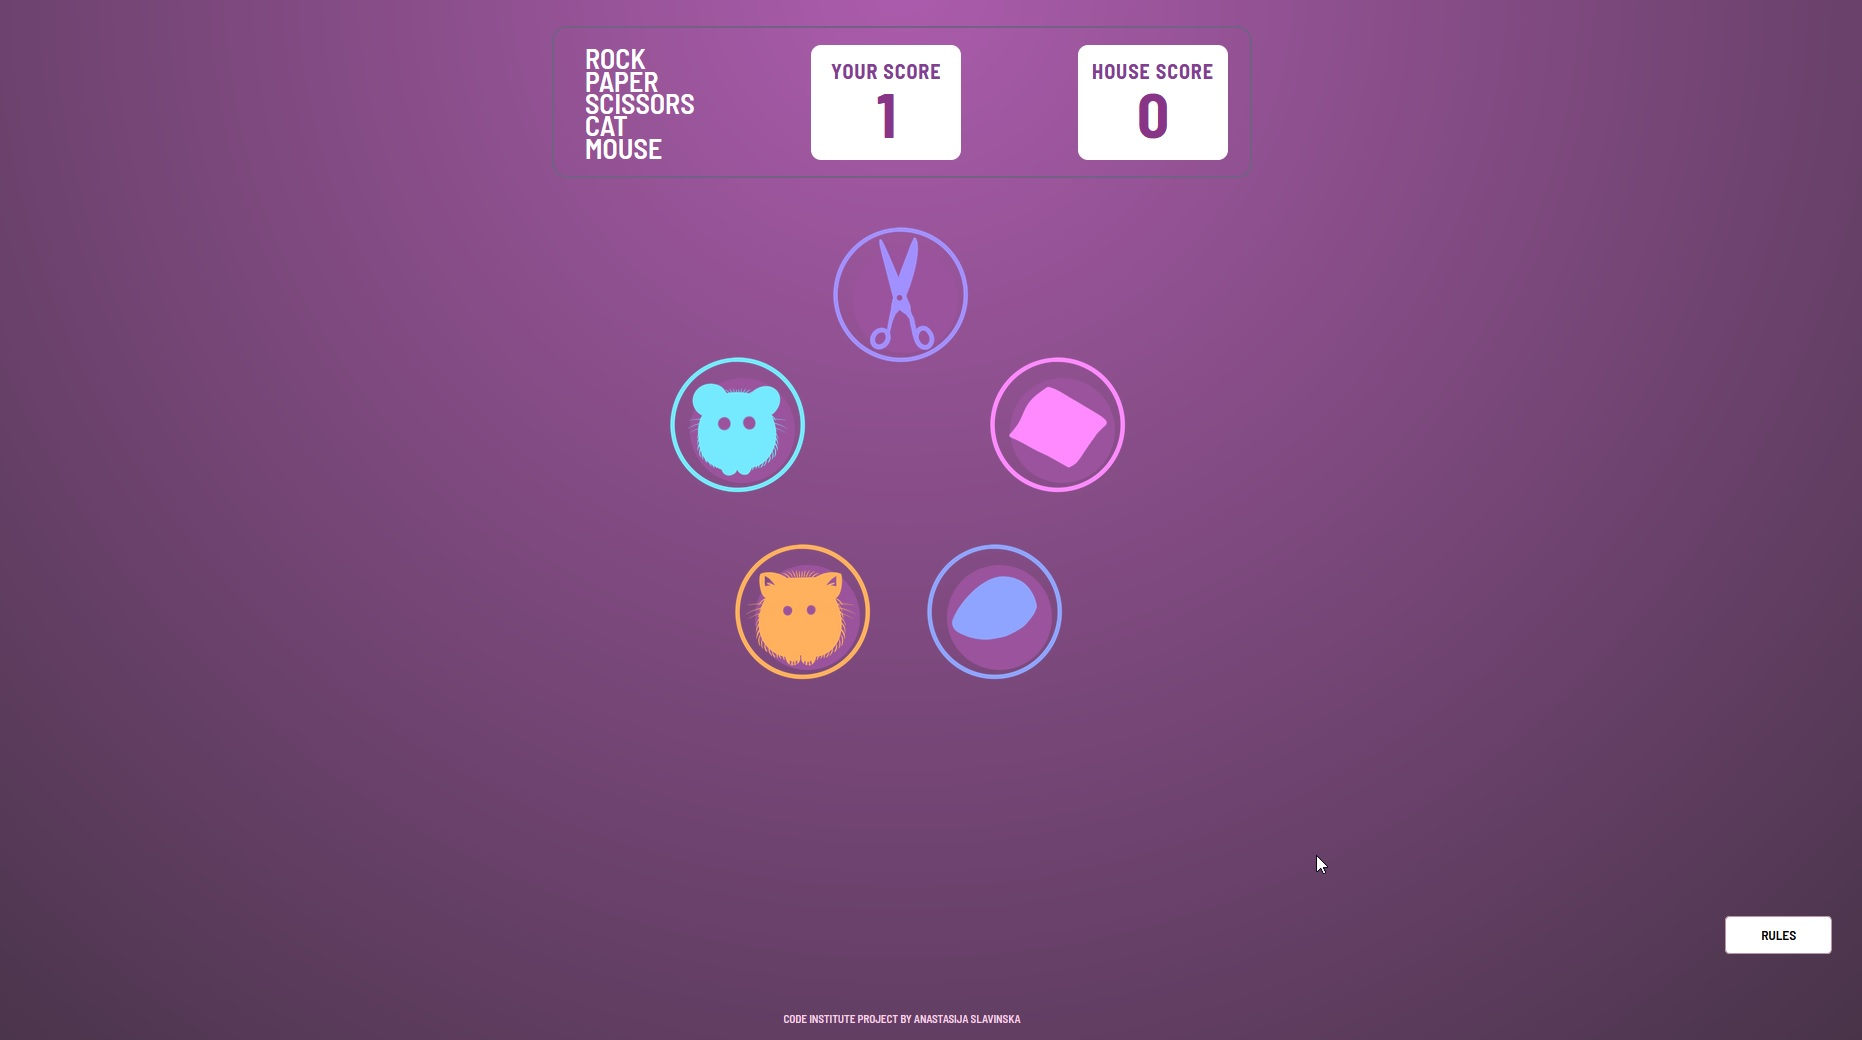
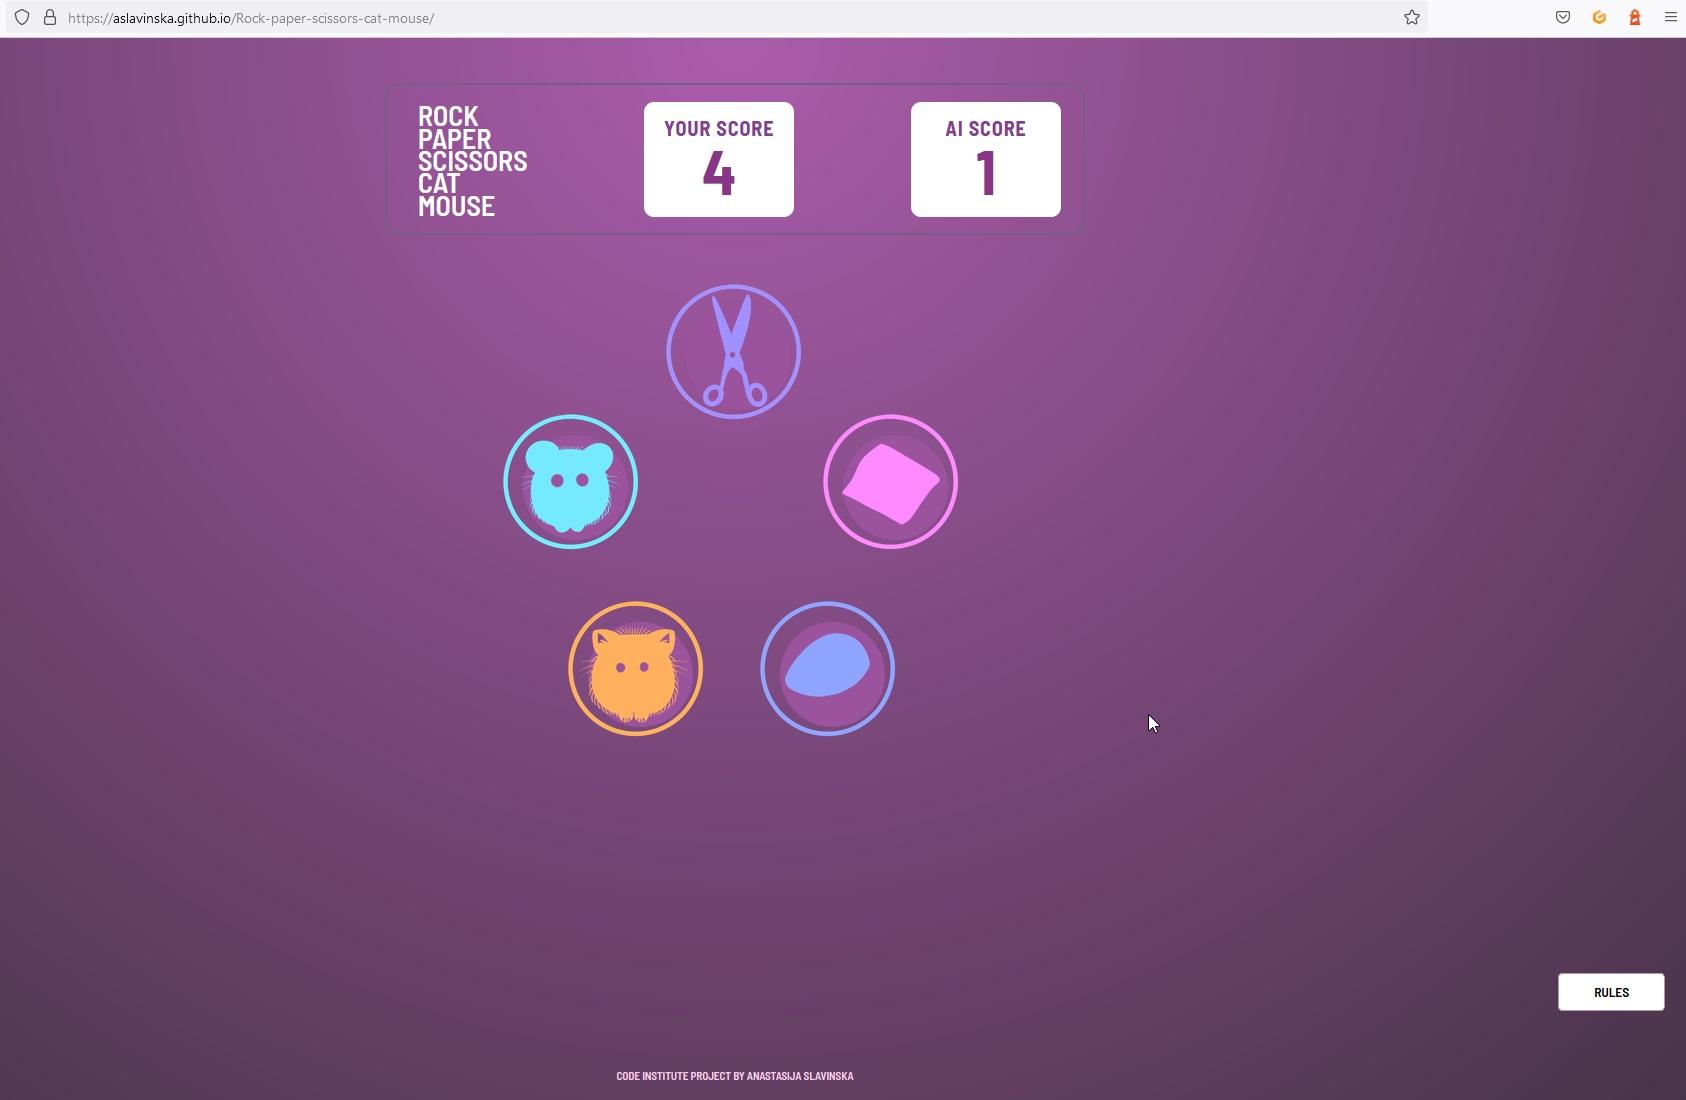
Adding README file

diff --git a/README.md b/README.md
@@ -1,12 +1,36 @@
 # Rock, Paper, Scissors, Cat and Mouse Game
 
+This game is a personal take on Rock, Paper, Scissors, Spok and Lizard game. User is playing agains the computer and its designed for intertaiment. The computer selects random option from an array of 5 options. 
+At the end of the game the user will be able to see their score vs computer the AI score. The game is designed to be unlimited.
+In the image below you are able to see how the games main page will look on different devices. 
+
 ![Responsive](/assets/images/Responsive.jpg)
 
 # Features
 
-- **Navigation**
+- ## Existing Features
     - This games UI is designed to be on a single page and the view will be updated as per the user input.
-    ![Main Page](/assets/images/menuprintmainpage.jpg)![Score Page](/assets/images/scorepage.jpg)
+    - **Header**:
+    - Both the main page and the score page will have the header element in a box above the game with the score count, until the game is reloaded, then the  score count will go to 0. 
+    - The header tells the user which game they are playing.
+    - **The Game Options**:
+    - The main page allows user to select an element out of the 5 option, as soon as the choice is made the game will take you to the score page below.
+    - This section provides interactive icons to make a choice and play the game. 
+
+    ![Main Page](/assets/images/mainpage.jpg)
+ 
+    - **The Game Result**:
+    - On the score page the user will be able to see their score vs the AI score.
+    -  On the score page the user will be able to see the AI choice and who won this game.
+
+    ![Score Page](/assets/images/scorepage.jpg)
+
+    - **Rules Button**
+    Both the main page and the score page contain Rules button as shown below, this grapth is made for the users understanding what beats what. 
+
+    ![Rules Page](/assets/images/Rules.jpg)
+    - **Footer**
+    - The footer shows to the user the author of the game. 
 
 # Testing
  - I have tested this page in brosers: Chrome and Firefox.
@@ -21,6 +45,7 @@
 2. 404 favicon error has been detected during the development, using favicon generator images and links were imported and the issue has been resolved. 
 3. The click command was not recognised by the browser, as the main function was not called.
     3.1 after calling the function got an error : Uncaught TypeError: target is undefined. In order to solve it did code refacturing, removed main function and added event listener function with init function at the end of the code. 
+4. During the deployment on Github Pages the images were not loading, but the project was working great in Gitpod testing environment, after some research online it was tried to add "." before assets "src="./assets/images/mouse.png"" and the Github was able to load the images. 
 
 ## Validator Testing 
 
@@ -40,12 +65,12 @@ No unfixed bugs that have been identified.
 
 # Deployment 
 
-The site was deployed to Github pages using following steps:
+The game was deployed to Github pages using following steps:
 1. In the Github repository go to the Settings tab;
 2. From the source section select Master Branch/ Main;
 3. Click save and the link to the complete website will be automatically generated by Github.
 
-The lie link can be found here - [Rock, Paper, Scissors, Cat and Mouse Game](https://aslavinska.github.io/Rock-paper-scissors-cat-mouse/).
+The live link can be found here - [Rock, Paper, Scissors, Cat and Mouse Game](https://aslavinska.github.io/Rock-paper-scissors-cat-mouse/).
 
 # Credits
 
@@ -56,4 +81,4 @@ The lie link can be found here - [Rock, Paper, Scissors, Cat and Mouse Game](htt
  and [Github Free Example](https://github.com/CompetentProgramming/rock-paper-scissors-lizard-spock)
 
 ## Media
-All images were created by Anastasija Slavinska. All rights reserved.
+All images were created by Anastasija Slavinska.
